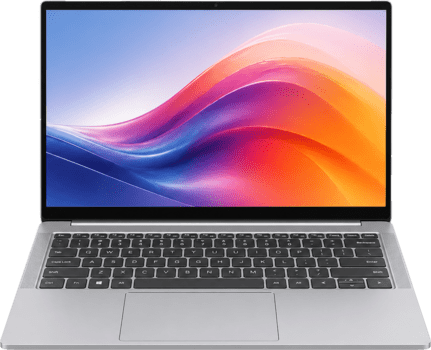
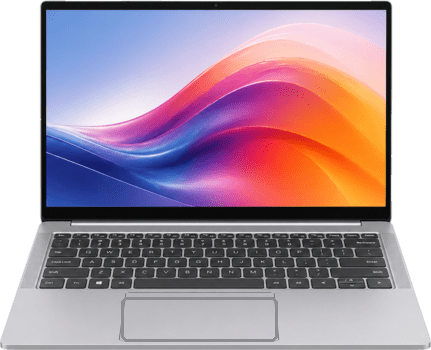
Sidebar gon + the shop ra sidebar, sua anh laptop
- Sidebar bo nut Huong dan / Gioi thieu (ke ca handler) va bo
  muc 'Danh sach bai test'; NavList giu lai nhung an
  (Visibility=Collapsed) de wizard, tu nhay bai, cham trang
  thai va import plugin van chay, khong phai viet lai dieu
  huong.
- The shop doi tu Dashboard sang sidebar (logo + ten shop,
  badge bao hanh 6 thang, 2 chi nhanh, vitinhantam.com, nut
  Tham quan shop); nut dung lai VisitShopButton_Click co san
  (them try/catch nhu ban cu o Dashboard).
- Dashboard chi con the may + ket qua nhanh + the Suc khoe.
- Anh laptop the may: phong to 145 -> 200px va ve lai vien
  trackpad day 3px trong file goc (vien 1px cu bi mat khi
  thu nho nen trong nhu bi cat mat de may); kiem chung bang
  mo phong render 200x163 thay ro trackpad.
- Mascot sidebar doi sang anh mascot_checklist.png user gui
  (nen trong suot, 1536x1024), thay file mascot-checklist-2026.png cu.

diff --git a/验机软件/MainWindow.xaml b/验机软件/MainWindow.xaml
@@ -67,6 +67,11 @@
             <Border Grid.Column="0" Background="{DynamicResource SubtleBgBrush}"
                     BorderBrush="{DynamicResource BorderBrush}" BorderThickness="0,0,1,0">
                 <DockPanel LastChildFill="True">
+                    <!-- NavList giữ lại nhưng ẩn: wizard, tự nhảy bài, chấm trạng thái
+                         và import plugin vẫn dùng nó làm trạng thái chọn; chỉ bỏ phần
+                         hiển thị "Danh sách bài test" khỏi sidebar theo yêu cầu. -->
+                    <ListBox x:Name="NavList" SelectionChanged="OnNavSelect"
+                             BorderThickness="0" Background="Transparent" Visibility="Collapsed"/>
                     <StackPanel DockPanel.Dock="Top" Margin="14,20,14,14">
                         <StackPanel Orientation="Horizontal" Margin="0,0,0,14">
                             <Image Source="pack://application:,,,/Assets/mascot-checklist-2026.png"
@@ -93,13 +98,6 @@
                         <Button x:Name="NavTools" Content="⚒    Công cụ tiện ích" Click="SidebarTools_Click"
                                 HorizontalContentAlignment="Left" FontSize="14"
                                 Padding="14,11" Margin="0,0,0,5"/>
-                        <Separator Margin="0,12,0,12"/>
-                        <Button Content="?    Hướng dẫn" Click="SidebarHelp_Click"
-                                HorizontalContentAlignment="Left" FontSize="14"
-                                Padding="14,11" Margin="0,0,0,5"/>
-                        <Button Content="ⓘ    Giới thiệu" Click="SidebarAbout_Click"
-                                HorizontalContentAlignment="Left" FontSize="14"
-                                Padding="14,11"/>
                     </StackPanel>
                     <StackPanel DockPanel.Dock="Bottom" Margin="18,8,18,17">
                         <!-- Mascot checklist chỉ xuất hiện ở header, theo bản thiết kế đã duyệt. -->
@@ -110,14 +108,44 @@
                         <TextBlock Text="An Tâm PC check • Windows" FontSize="10"
                                    Foreground="{DynamicResource TextSecondaryBrush}"/>
                     </StackPanel>
-                    <!-- Giữ NavList động để wizard, plugin import và chấm trạng thái hoạt động nguyên vẹn. -->
+                    <!-- Thẻ shop dời từ Dashboard sang sidebar (nội dung giữ nguyên,
+                         chỉ thu gọn cho vừa chiều rộng sidebar). -->
                     <ScrollViewer VerticalScrollBarVisibility="Auto"
                                   HorizontalScrollBarVisibility="Disabled">
-                        <Expander x:Name="TestsExpander" Header="Danh sách bài test"
-                                  IsExpanded="False" Margin="10,0,10,8">
-                            <ListBox x:Name="NavList" SelectionChanged="OnNavSelect"
-                                     BorderThickness="0" Background="Transparent"/>
-                        </Expander>
+                        <Border Background="{DynamicResource SurfaceBgBrush}"
+                                BorderBrush="{DynamicResource BorderBrush}" BorderThickness="1"
+                                CornerRadius="14" Padding="12">
+                            <StackPanel>
+                                <StackPanel Orientation="Horizontal" Margin="0,0,0,10">
+                                    <Image Source="pack://application:,,,/Assets/logo-antam.png"
+                                           Width="32" Height="32" Stretch="Uniform" Margin="0,0,8,0"/>
+                                    <TextBlock Text="Vi tính An Tâm" FontWeight="Bold"
+                                               FontSize="17" VerticalAlignment="Center"/>
+                                </StackPanel>
+                                <Border Background="{DynamicResource NavSelectedBrush}"
+                                        CornerRadius="10" Padding="8,6" Margin="0,0,0,10">
+                                    <TextBlock Text="Bảo hành 6 tháng nguyên máy"
+                                               Foreground="{DynamicResource AccentBrush}"
+                                               FontWeight="SemiBold" FontSize="11"
+                                               HorizontalAlignment="Center" TextAlignment="Center"
+                                               TextWrapping="Wrap"/>
+                                </Border>
+                                <TextBlock Text="⌖  Chi nhánh 1: 52 Nguyễn Cửu Vân, P. Long An, T. Tây Ninh"
+                                           Foreground="{DynamicResource TextSecondaryBrush}"
+                                           FontSize="11" TextWrapping="Wrap" Margin="0,0,0,8"/>
+                                <TextBlock Text="⌖  Chi nhánh 2: 218/3 đường số 11, phường Thủ Đức, TP. Hồ Chí Minh"
+                                           Foreground="{DynamicResource TextSecondaryBrush}"
+                                           FontSize="11" TextWrapping="Wrap" Margin="0,0,0,8"/>
+                                <TextBlock Text="◎  vitinhantam.com"
+                                           Foreground="{DynamicResource TextSecondaryBrush}"
+                                           FontSize="11" Margin="0,0,0,12"/>
+                                <Button Content="↗  Tham quan shop" Click="VisitShopButton_Click"
+                                        HorizontalAlignment="Stretch" Padding="10,8"
+                                        Foreground="{DynamicResource AccentBrush}"
+                                        BorderBrush="{DynamicResource AccentBrush}"
+                                        Background="{DynamicResource SurfaceBgBrush}"/>
+                            </StackPanel>
+                        </Border>
                     </ScrollViewer>
                 </DockPanel>
             </Border>

diff --git a/Plugins/Dashboard/DashboardPage.xaml b/Plugins/Dashboard/DashboardPage.xaml
@@ -61,11 +61,11 @@
                     <Border Style="{StaticResource ReferenceCard}">
                         <Grid>
                             <Grid.ColumnDefinitions>
-                                <ColumnDefinition Width="145"/>
+                                <ColumnDefinition Width="213"/>
                                 <ColumnDefinition Width="*"/>
                             </Grid.ColumnDefinitions>
                             <Image Grid.Column="0" Source="pack://application:,,,/Assets/laptop-preview-2026.png"
-                                   Width="145" Height="144" Stretch="Uniform"
+                                   Width="200" Height="190" Stretch="Uniform"
                                    RenderOptions.BitmapScalingMode="HighQuality" Margin="0,0,13,0"/>
                             <StackPanel Grid.Column="1" VerticalAlignment="Center">
                                 <TextBlock x:Name="MachineText" Text="PC / Laptop đang kiểm tra"
@@ -193,37 +193,6 @@
                         </StackPanel>
                     </Border>
 
-                    <Border Style="{StaticResource ReferenceCard}">
-                        <StackPanel>
-                            <Grid Margin="0,0,0,12">
-                                <Grid.ColumnDefinitions>
-                                    <ColumnDefinition Width="*"/>
-                                    <ColumnDefinition Width="Auto"/>
-                                </Grid.ColumnDefinitions>
-                                <StackPanel Orientation="Horizontal">
-                                    <Image Source="pack://application:,,,/Assets/logo-antam.png"
-                                           Width="40" Height="40" Stretch="Uniform" Margin="0,0,8,0"/>
-                                    <TextBlock Text="Vi tính An Tâm" FontWeight="Bold"
-                                               FontSize="21" VerticalAlignment="Center"/>
-                                </StackPanel>
-                                <Border Grid.Column="1" Background="{DynamicResource NavSelectedBrush}"
-                                        CornerRadius="10" Padding="8,6" VerticalAlignment="Center">
-                                    <TextBlock Text="Bảo hành 6 tháng nguyên máy" Foreground="{DynamicResource AccentBrush}"
-                                               FontWeight="SemiBold" FontSize="12"/>
-                                </Border>
-                            </Grid>
-                            <TextBlock Text="⌖  Chi nhánh 1: 52 Nguyễn Cửu Vân, P. Long An, T. Tây Ninh"
-                                       Style="{StaticResource Muted}" Margin="0,0,0,10"/>
-                            <TextBlock Text="⌖  Chi nhánh 2: 218/3 đường số 11, phường Thủ Đức, TP. Hồ Chí Minh"
-                                       Style="{StaticResource Muted}" Margin="0,0,0,10"/>
-                            <TextBlock Text="◎  vitinhantam.com" Style="{StaticResource Muted}" Margin="0,0,0,14"/>
-                            <Button Content="↗  Tham quan shop" Click="ShopButton_Click"
-                                    HorizontalAlignment="Stretch"
-                                    Padding="15,11" Foreground="{DynamicResource AccentBrush}"
-                                    BorderBrush="{DynamicResource AccentBrush}"
-                                    Background="{DynamicResource SurfaceBgBrush}"/>
-                        </StackPanel>
-                    </Border>
                 </StackPanel>
             </Grid>
         </Grid>

diff --git a/验机软件/MainWindow.xaml.cs b/验机软件/MainWindow.xaml.cs
@@ -218,8 +218,8 @@ public partial class MainWindow : Window
         TextAlignment = TextAlignment.Center,
     };
 
-    // Menu chính theo thiết kế tham chiếu; NavList động vẫn tồn tại bên trong
-    // expander để giữ nguyên wizard, thông báo trạng thái và các plugin đã cài.
+    // Menu chính; NavList động giữ lại nhưng ẩn (chỉ làm trạng thái chọn cho
+    // wizard / tự nhảy bài / chấm trạng thái), không còn expander "Danh sách bài test" ở sidebar.
     bool NavigateFromSidebar(string moduleId)
     {
         if (_wizardMode)
@@ -233,17 +233,12 @@ public partial class MainWindow : Window
 
     void SidebarOverview_Click(object sender, RoutedEventArgs e)
     {
-        if (NavigateFromSidebar("dashboard")) TestsExpander.IsExpanded = false;
+        NavigateFromSidebar("dashboard");
     }
 
     void SidebarInspection_Click(object sender, RoutedEventArgs e)
     {
-        if (_wizardMode)
-        {
-            TestsExpander.IsExpanded = true;
-            return;
-        }
-        TestsExpander.IsExpanded = true;
+        if (_wizardMode) return;
         var tests = _hostContext.Modules.Where(m => !m.Terminal).OrderBy(m => m.Order).ToList();
         if (tests.Count == 0)
         {
@@ -265,33 +260,7 @@ public partial class MainWindow : Window
     void SidebarReport_Click(object sender, RoutedEventArgs e) => NavigateFromSidebar("summary");
     void SidebarTools_Click(object sender, RoutedEventArgs e)
     {
-        if (!NavigateFromSidebar("disk")) return;
-        TestsExpander.IsExpanded = true;
-    }
-
-    void SidebarHelp_Click(object sender, RoutedEventArgs e)
-    {
-        if (_wizardMode) { NavigateFromSidebar("dashboard"); return; }
-        MessageBox.Show(
-            "1. Bấm Kiểm tra chi tiết để bắt đầu hoặc tiếp tục.\n" +
-            "2. Kiểm tra từng mục rồi xác nhận kết quả.\n" +
-            "3. Xem Sức khỏe và Báo cáo để đánh giá rủi ro.\n" +
-            "4. Lưu hồ sơ trước khi chuyển sang máy khác.\n\n" +
-            "Dừng test nặng ở thanh trên khi cần; chưa test không đồng nghĩa đã đạt.",
-            "Hướng dẫn sử dụng", MessageBoxButton.OK, MessageBoxImage.Information);
-    }
-
-    void SidebarAbout_Click(object sender, RoutedEventArgs e)
-    {
-        if (_wizardMode) { NavigateFromSidebar("dashboard"); return; }
-        MessageBox.Show(
-            "An Tâm PC check • Vi tính An Tâm\n" +
-            "Công cụ hỗ trợ đánh giá PC/Laptop cũ trước khi mua.\n\n" +
-            "Chi nhánh 1: 52 Nguyễn Cửu Vân, P. Long An, T. Tây Ninh\n" +
-            "Chi nhánh 2: 218/3 đường số 11, phường Thủ Đức, TP. Hồ Chí Minh\n" +
-            "Website: https://vitinhantam.com\n" +
-            "Bảo hành 6 tháng nguyên máy (đối với máy thuộc chính sách shop).",
-            "Giới thiệu", MessageBoxButton.OK, MessageBoxImage.Information);
+        NavigateFromSidebar("disk");
     }
 
     void AdjustSidebarForHeight()
@@ -459,7 +428,6 @@ public partial class MainWindow : Window
 
     void StartWizardMode()
     {
-        TestsExpander.IsExpanded = true;
         _wizardMode = true;
         NavList.IsEnabled = false;
         WizardBar.Visibility = Visibility.Visible;
@@ -518,8 +486,18 @@ public partial class MainWindow : Window
     /// website chính của shop (https://www.vitinhantam.com) trong trình duyệt
     /// mặc định, bằng Process.Start + UseShellExecute. Nút ở sidebar nên luôn
     /// hiện ở mọi trang, không phụ thuộc trang Tổng kết hay kịch bản kết luận.</summary>
-    void VisitShopButton_Click(object sender, RoutedEventArgs e) =>
-        Process.Start(new ProcessStartInfo { FileName = "https://www.vitinhantam.com", UseShellExecute = true });
+    void VisitShopButton_Click(object sender, RoutedEventArgs e)
+    {
+        try
+        {
+            Process.Start(new ProcessStartInfo { FileName = "https://www.vitinhantam.com", UseShellExecute = true });
+        }
+        catch (Exception ex)
+        {
+            MessageBox.Show($"Chưa mở được website: {ex.Message}", "Tham quan shop",
+                MessageBoxButton.OK, MessageBoxImage.Warning);
+        }
+    }
 
     /// <summary>窗口图标取 exe 内嵌图标（Win32 提取，多尺寸 ico 在各 DPI 下都清晰）。</summary>
     void UpdateIcon()

diff --git a/Plugins/Dashboard/DashboardPage.xaml.cs b/Plugins/Dashboard/DashboardPage.xaml.cs
@@ -53,19 +53,6 @@ public partial class DashboardPage : UserControl
         }
     }
 
-    void ShopButton_Click(object sender, RoutedEventArgs e)
-    {
-        try
-        {
-            Process.Start(new ProcessStartInfo("https://vitinhantam.com") { UseShellExecute = true });
-        }
-        catch (Exception ex)
-        {
-            MessageBox.Show($"Chưa mở được website: {ex.Message}", "Tham quan shop",
-                MessageBoxButton.OK, MessageBoxImage.Warning);
-        }
-    }
-
     void StopButton_Click(object sender, RoutedEventArgs e)
     {
         var survivors = _host.StopAllHeavyTests();
